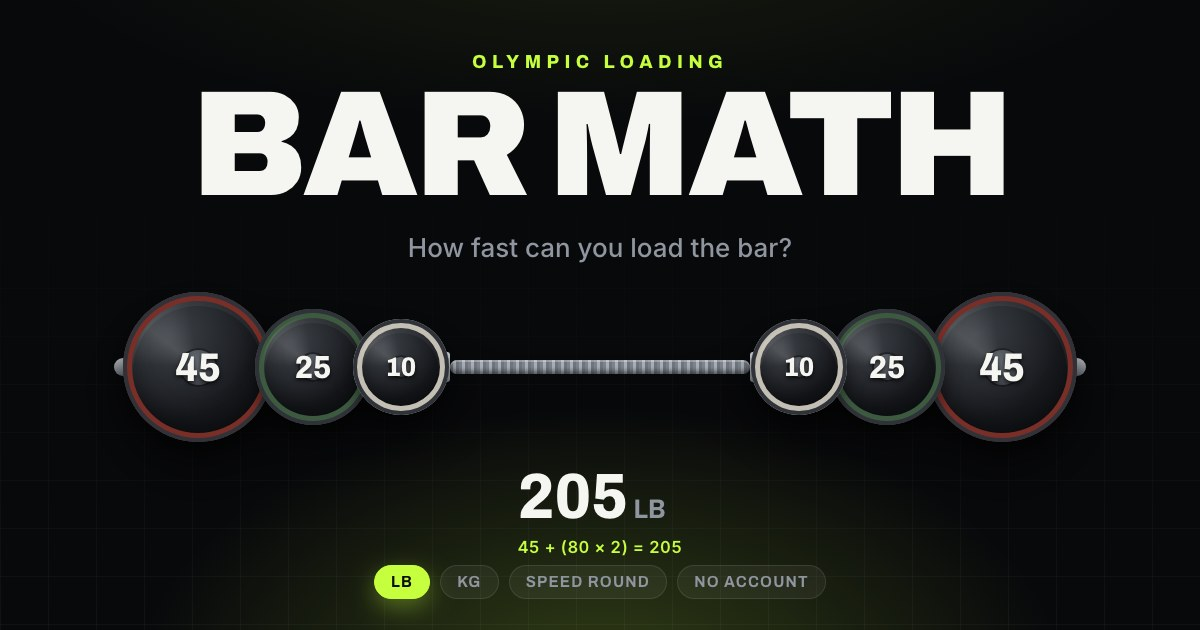
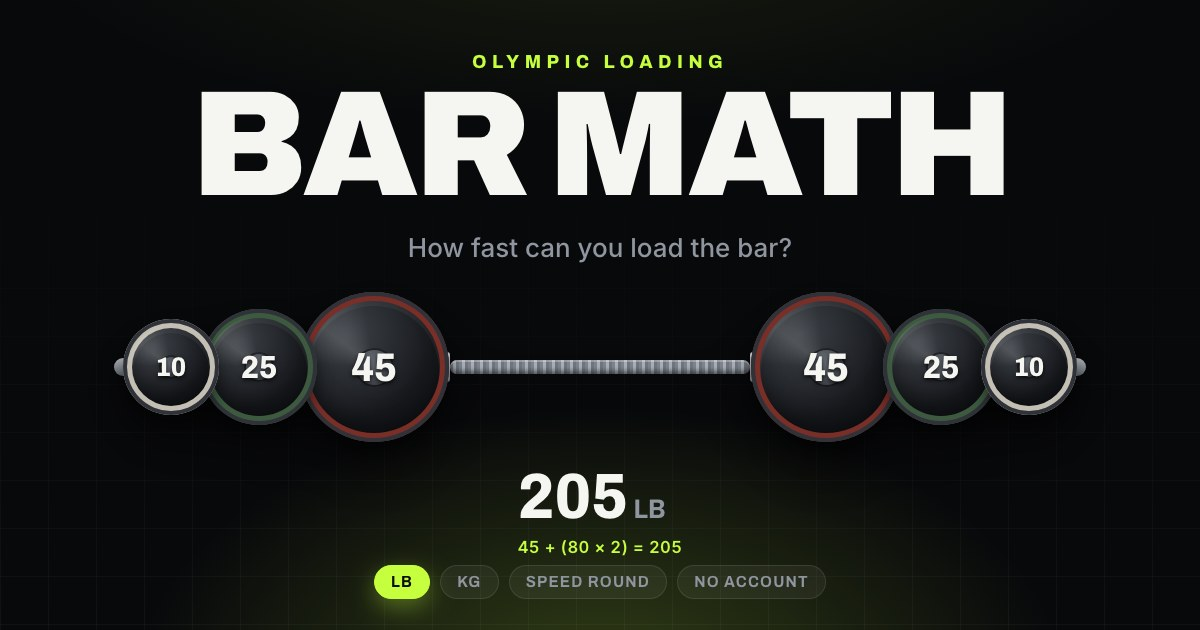
Load plates against the collar first, like a real bar (#9)
The barbell stacked the first plate outermost, so a loaded bar read
45 · 25 · 10 │ 10 · 25 · 45 from the sleeves in — backwards. Plates
are already stored in load order, so flipping each side's flex
direction puts the first plate on against the collar and later ones
outward, on the app's barbell and on the share card.

Changed region(s): [[0.0925, 0.4524, 0.37, 0.7238], [0.6167, 0.4524, 0.8942, 0.7238]]

diff --git a/src/styles.css b/src/styles.css
@@ -189,14 +189,16 @@
     padding-inline: 0.12rem;
   }
 
+  /* Plates are stored in load order: the first one on sits against the
+     collar, later ones stack outward toward the sleeve — like a real bar. */
   .bm-side-left {
-    flex-direction: row;
-    justify-content: flex-end;
+    flex-direction: row-reverse;
+    justify-content: flex-start;
   }
 
   .bm-side-right {
-    flex-direction: row-reverse;
-    justify-content: flex-end;
+    flex-direction: row;
+    justify-content: flex-start;
   }
 
   .bm-shaft {

diff --git a/scripts/og-card.html b/scripts/og-card.html
@@ -116,12 +116,14 @@
         align-items: center;
         filter: drop-shadow(0 22px 30px rgb(0 0 0 / 0.6));
       }
+      /* First plate against the collar, later ones outward — like a real bar. */
       .side {
         display: flex;
         align-items: center;
+        flex-direction: row-reverse;
       }
       .side.r {
-        flex-direction: row-reverse;
+        flex-direction: row;
       }
       .shaft {
         height: 14px;
